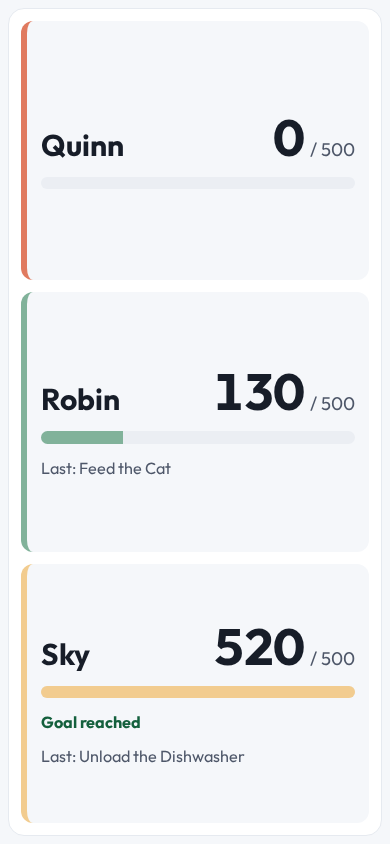
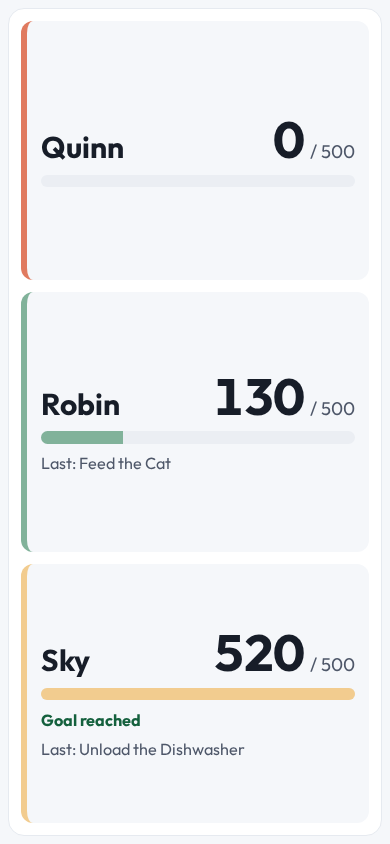
fix(points): prefer complete grids when readable areas tie

diff --git a/packages/slatecast/src/platform/kidsPointsLayout.ts b/packages/slatecast/src/platform/kidsPointsLayout.ts
@@ -203,6 +203,7 @@ export const getKidsPointsLayout = ({
       return {
         id: String(columnCount),
         columnCount,
+        emptyCellCount: rowCount * columnCount - kidCount,
         isBoard:
           cardWidth >= KID_CARD_MIN_WIDTH &&
           cardHeight >= KID_CARD_MIN_HEIGHT,
@@ -213,7 +214,11 @@ export const getKidsPointsLayout = ({
         }),
       }
     },
+  ).sort(
+    (first, second) =>
+      first.emptyCellCount - second.emptyCellCount,
   )
+  // Equal readable areas prefer complete grids rather than unused cells.
   const chosen = selectPriorityLayout(candidates)
   const isBoard = chosen?.isBoard ?? false
   const columnCount = chosen?.columnCount ?? 1

diff --git a/packages/slatecast/src/platform/platform.css b/packages/slatecast/src/platform/platform.css
@@ -1313,7 +1313,7 @@
   border-block-start: 0;
   border-inline-start: 6px solid
     var(--kid-color, var(--accent));
-  gap: clamp(8px, 4cqmin, 24px);
+  gap: clamp(6px, 1.2cqh, 16px);
 }
 .kids-points-card-head {
   display: flex;
@@ -1338,6 +1338,11 @@
   .kids-points-total
   .kids-points-number {
   font-size: clamp(28px, 22cqmin, 80px);
+}
+.kids-points-card-head
+  .kids-points-total
+  .kids-points-number {
+  align-self: baseline;
 }
 .kids-points-card-head .kids-points-total-label {
   font-size: clamp(14px, 8cqmin, 28px);

diff --git a/packages/slatecast/src/platform/kidsPointsLayout.test.ts b/packages/slatecast/src/platform/kidsPointsLayout.test.ts
@@ -70,6 +70,16 @@ test("a landscape panel uses columns while an intermediate box uses a grid", () 
   ).toBe(2)
 })
 
+test("equally readable grids prefer complete rows rather than empty cells", () => {
+  expect(
+    getKidsPointsLayout({
+      width: 1200,
+      height: 640,
+      kidCount: 4,
+    }).columnCount,
+  ).toBe(2)
+})
+
 test("rows are drawn only when they finish, with room kept to say what was dropped", () => {
   expect(
     getKidsPointsLayout({

diff --git a/packages/slatecast/src/platform/KidsPoints.vrt.tsx b/packages/slatecast/src/platform/KidsPoints.vrt.tsx
@@ -97,6 +97,13 @@ test("a scan on a wide panel marks that child on the board", async () => {
       '.kids-points-card[data-scanned="true"]',
     ),
   ).not.toBeNull()
+  document
+    .querySelectorAll(".kids-points-card")
+    .forEach((card) => {
+      expect(card.scrollHeight).toBeLessThanOrEqual(
+        card.clientHeight + 1,
+      )
+    })
   await capture("kids-points-scan-1280x720")
 })
 

diff --git a/docs/decisions/2026-10-04-tally-marks-cards-use-the-available-panel.md b/docs/decisions/2026-10-04-tally-marks-cards-use-the-available-panel.md
@@ -8,7 +8,7 @@
 
 ## Decision
 
-Use Charcuterie's shared priority layout selector to choose a card grid from the view's measured width, height, and child count. Score readable area rather than empty rectangle area. Every card must meet its minimum dimensions; retain the complete-row fallback and overflow count when full cards do not fit. Compact rows also share the available height, treating 64 pixels as their minimum instead of their fixed height.
+Use Charcuterie's shared priority layout selector to choose a card grid from the view's measured width, height, and child count. Score readable area rather than empty rectangle area. Break equal-area ties in favor of complete grids with fewer unused cells. Every card must meet its minimum dimensions; retain the complete-row fallback and overflow count when full cards do not fit. Compact rows also share the available height, treating 64 pixels as their minimum instead of their fixed height.
 
 A tall portrait panel stacks cards across the full height. Earned points are larger than the goal, with both beside the child's name. Keep task details and existing scan feedback, animation, and countdown behavior. A board that fits all children continues showing all children during a scan.
 
